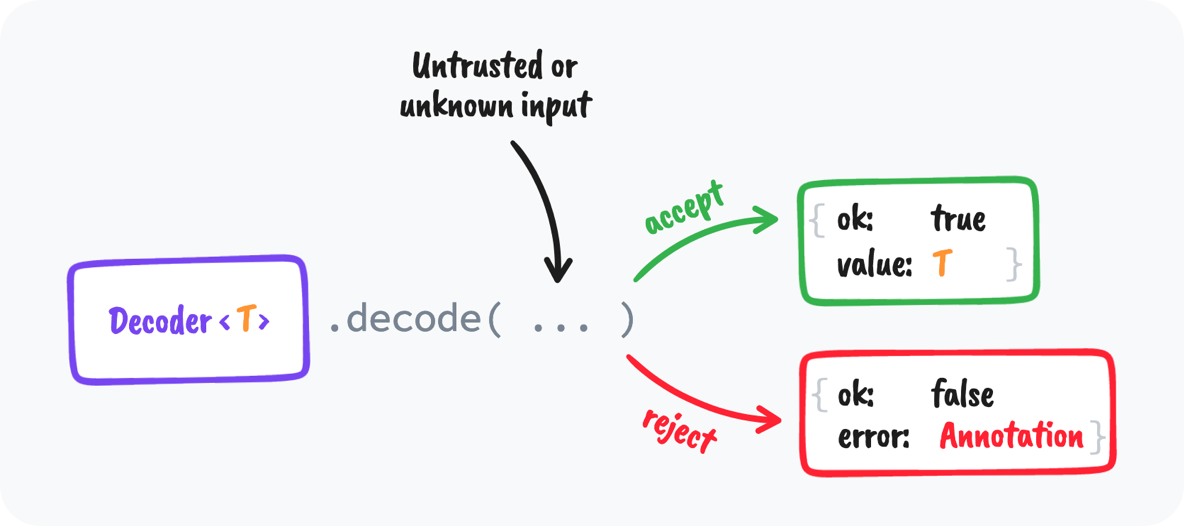
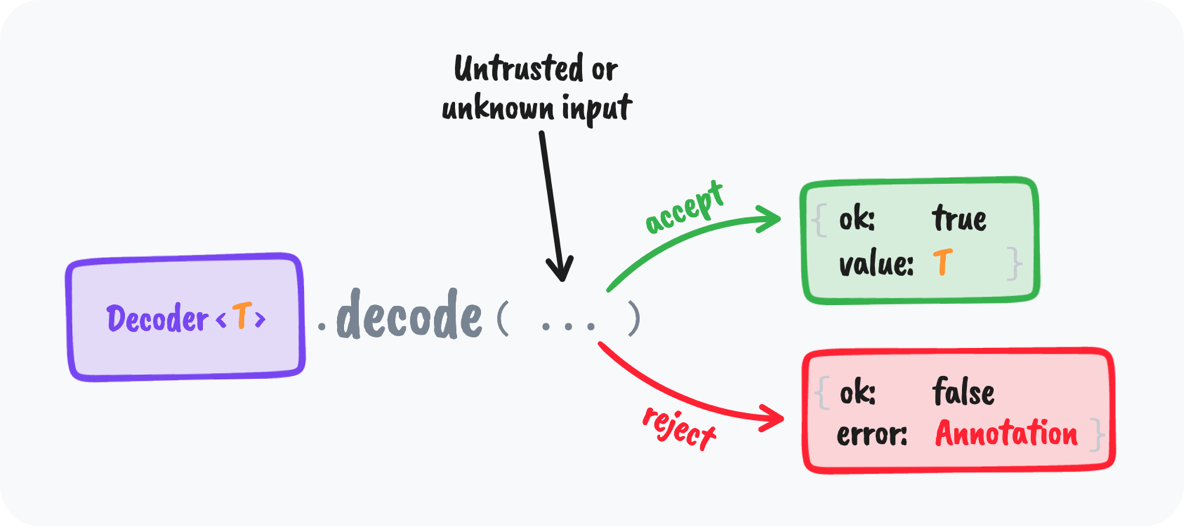
Update images and description of main decoder methods

Changed region(s): [[0.0312, 0.4563, 0.9375, 0.9125], [0.4375, 0.3346, 0.875, 0.6084], [0.3125, 0.0913, 0.5312, 0.4259]]

diff --git a/docs/index.md b/docs/index.md
@@ -50,35 +50,38 @@ the decoded value of type `T` as its payload, or an "error" result.
 This way, you can be sure that all untrusted runtime data is always in the shape you
 expect, and that static types can correctly be inferred for dynamic input data.
 
-There are roughly two ways to use a `Decoder<T>` instance:
+To use a decoder on an external input, call one of these three methods on the outermost
+decoder. Which one you want to use will depend on your use case.
 
--   `.verify()` (for convenience)
--   `.decode()` (for programmatically handling the success)
+-   `.verify()` (= recommended)
+-   `.value()` (for best-effort decoding)
+-   `.decode()` (for precise control)
 
-The simplest API is `.verify()`. It will either return the decoded (safe) value on
-success, or throw an error with a friendly message when the decoding failed.
+The simplest and recommended method is [`.verify()`](/Decoder.html#verify). It will either
+return the decoded (safe) value on success, or throw an error with a friendly message when
+the decoding failed.
 
 <img alt="The .verify() method explained" src="./assets/schematic-verify.png" style="max-width: min(592px, 100%)" />
 
-Alternatively, you can use the lower-level `.decode()` method if you want to have more
-programmatic control over the result. It works like `.verify()`, but instead of directly
-returning a value or failing, it returns a "Result" value, which can either have
-`ok: true` (and a value), or `ok: false` and an error annotation.
+Alternatively, you can use the [`.value()`](/Decoder.html#value) method which will not
+throw, but instead return `undefined` when the decoder rejects the input. Use this when
+you don't care about erroring in the face of unexpected input data. For example to use it
+as a "best effort" attempt:
+
+<img alt="The .value() method explained" src="./assets/schematic-value.png" style="max-width: min(592px, 100%)" />
+
+> _**Caveat!** You won't be able to distinguish between a legal `undefined` value or a
+> decoding error this way._
+
+Lastly, you can use the lower-level [`.decode()`](/Decoder.html#decode) method if you want
+to have most programmatic control over the result. It works like
+[`.verify()`](/Decoder.html#verify), but instead of directly returning a value or failing,
+it returns a "Result" value, which can either have `ok: true` (and a value), or
+`ok: false` and an error annotation.
 
 <img alt="The .decode() method explained" src="./assets/schematic-decode.png" style="max-width: min(592px, 100%)" />
 
-This makes it easier to use in `if`-statements, or to fall back to a default value if you
-want to allow graceful failure. For example, you can use it as follows:
-
-```typescript
-// Best-effort attempt to decode, but fall back to 0 if externalData is not
-// a valid positive number.
-positiveNumber.decode(externalData).value ?? 0;
-
-// 42    => 42
-// -1    => 0
-// 'lol' => 0
-```
+You'll typically only use this method directly when implementing your own decoders.
 
 ## Understanding the "type" of a Decoder
 
